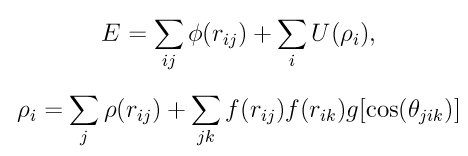
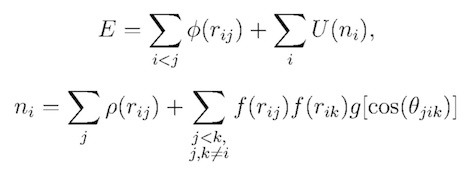
Updated version of equations, documentation.

diff --git a/doc/src/Eqs/pair_meam_spline.tex b/doc/src/Eqs/pair_meam_spline.tex
@@ -1,4 +1,5 @@
 \documentclass[12pt]{article}
+\usepackage{amsmath}
 
 \begin{document}
 

diff --git a/doc/src/Eqs/pair_meam_spline_multicomponent.tex b/doc/src/Eqs/pair_meam_spline_multicomponent.tex
@@ -1,4 +1,5 @@
 \documentclass[12pt]{article}
+\usepackage{amsmath}
 
 \begin{document}
 